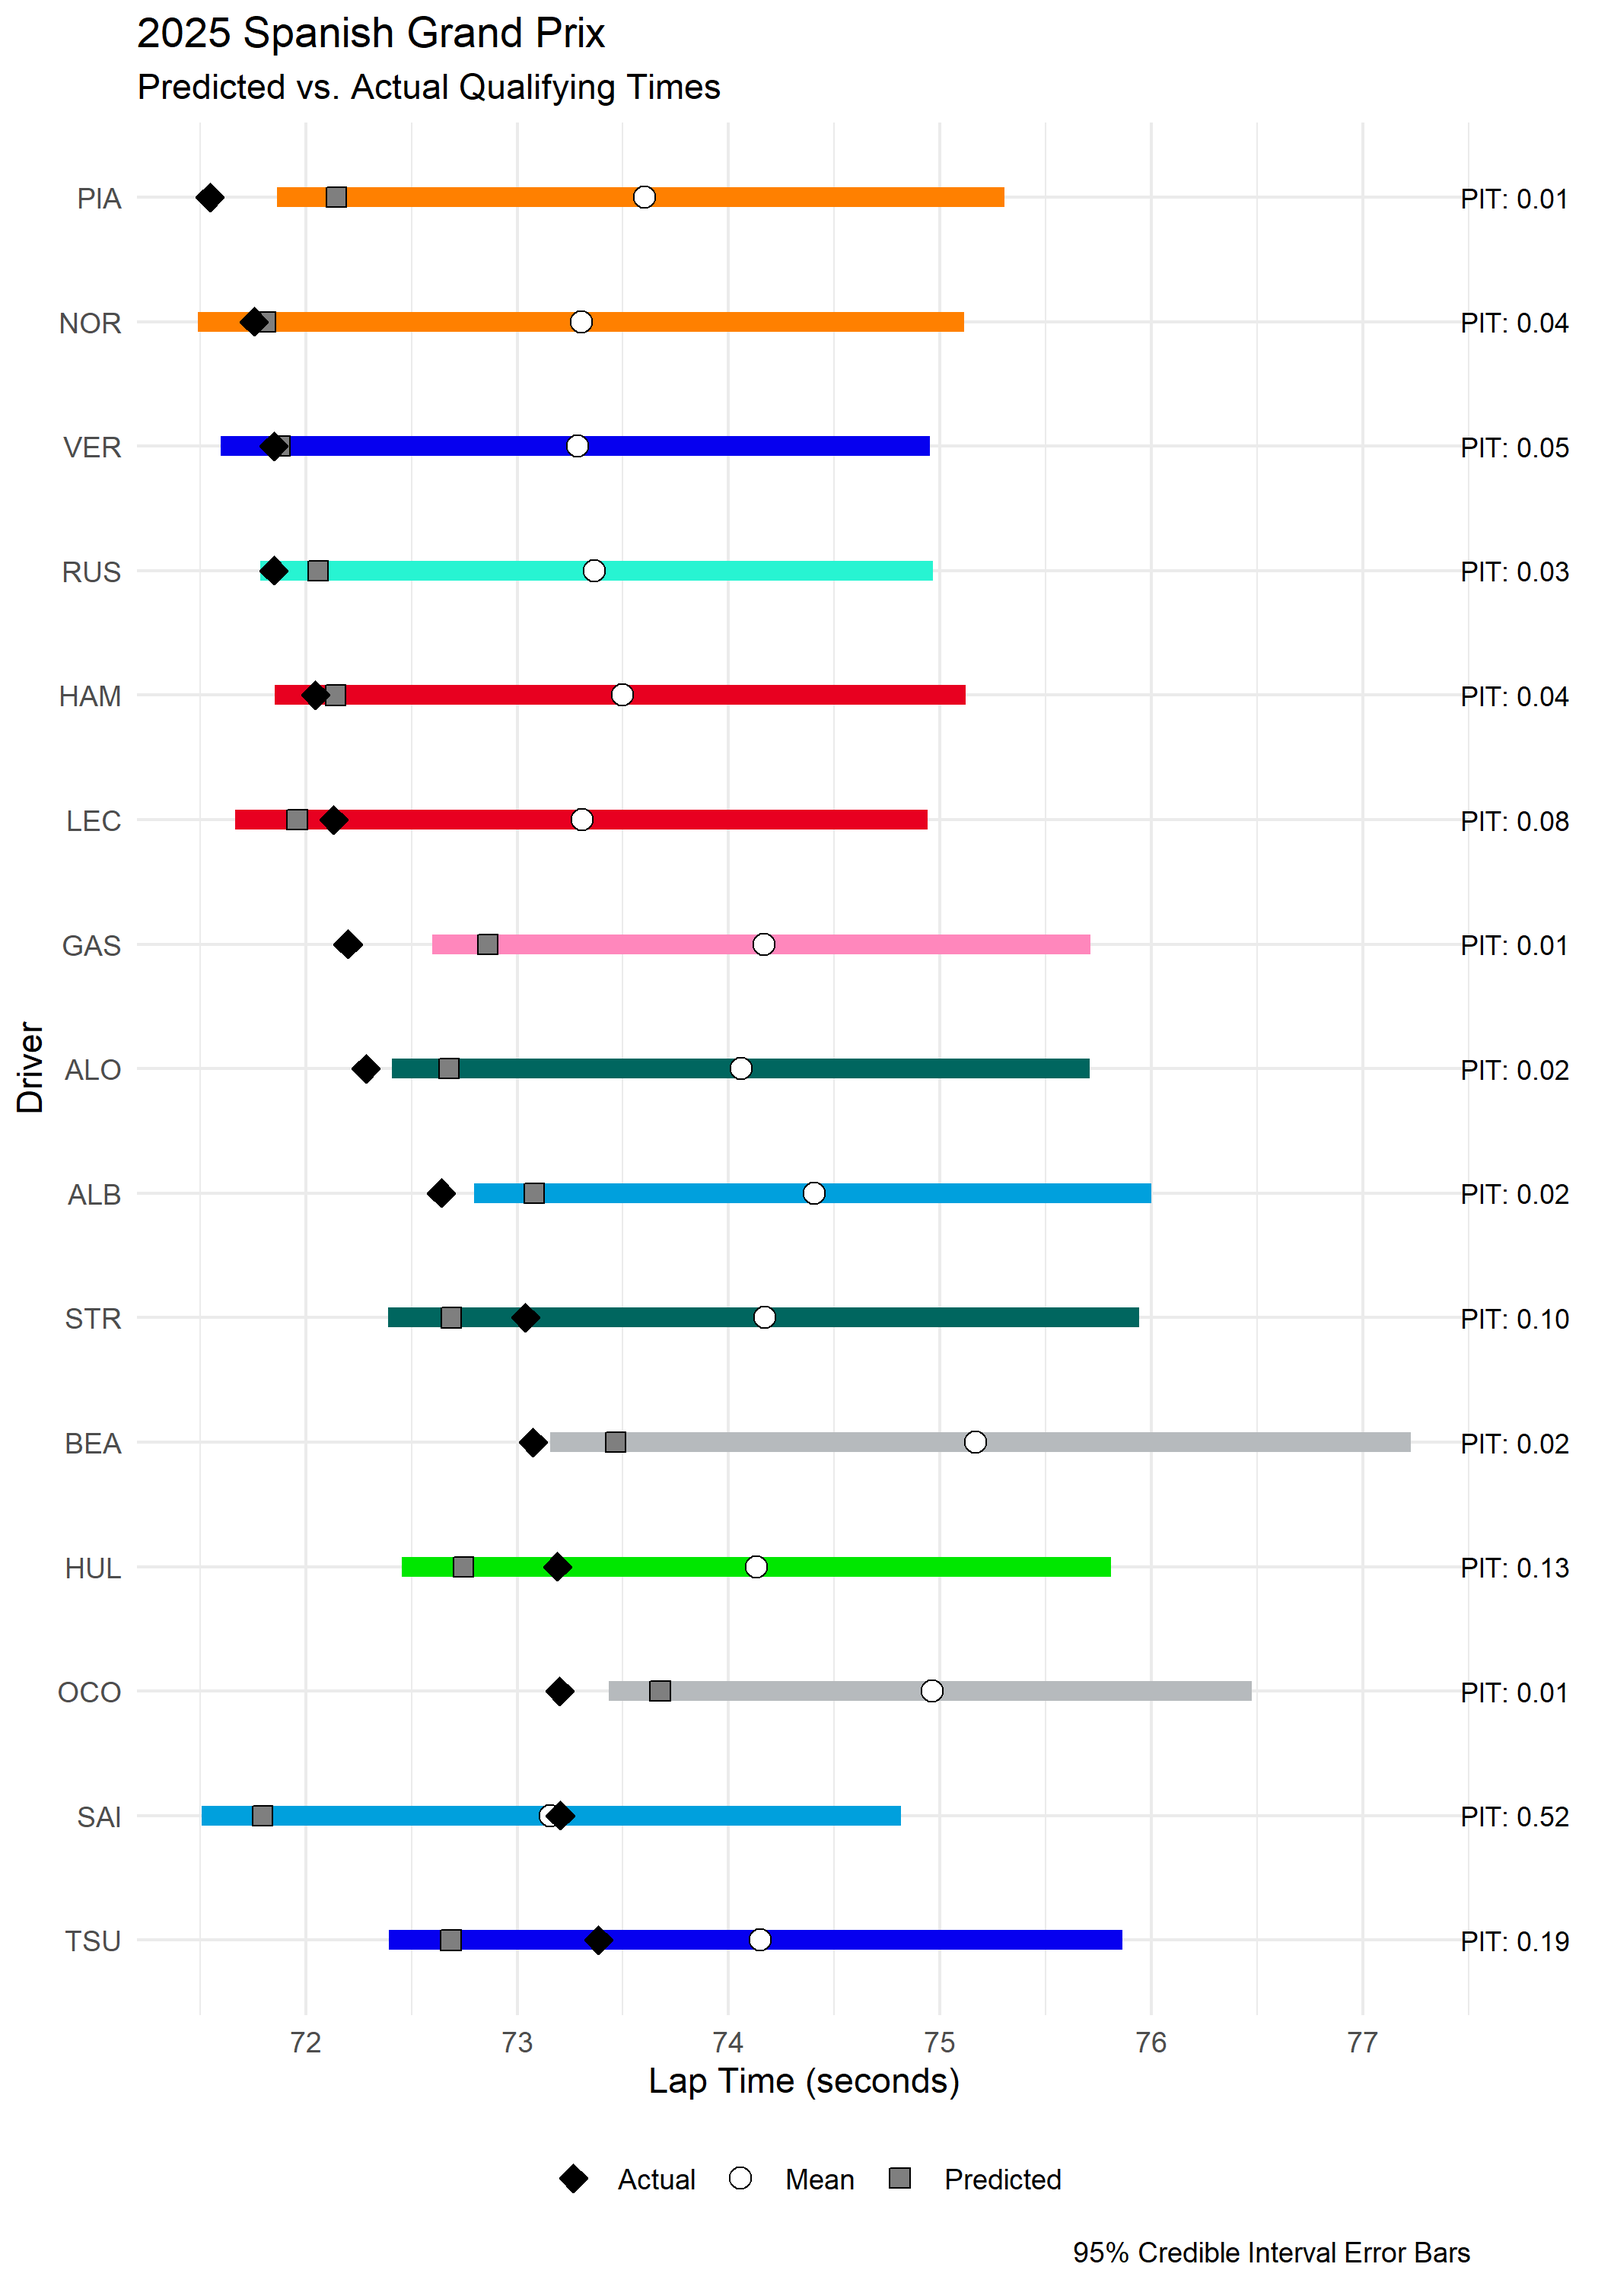
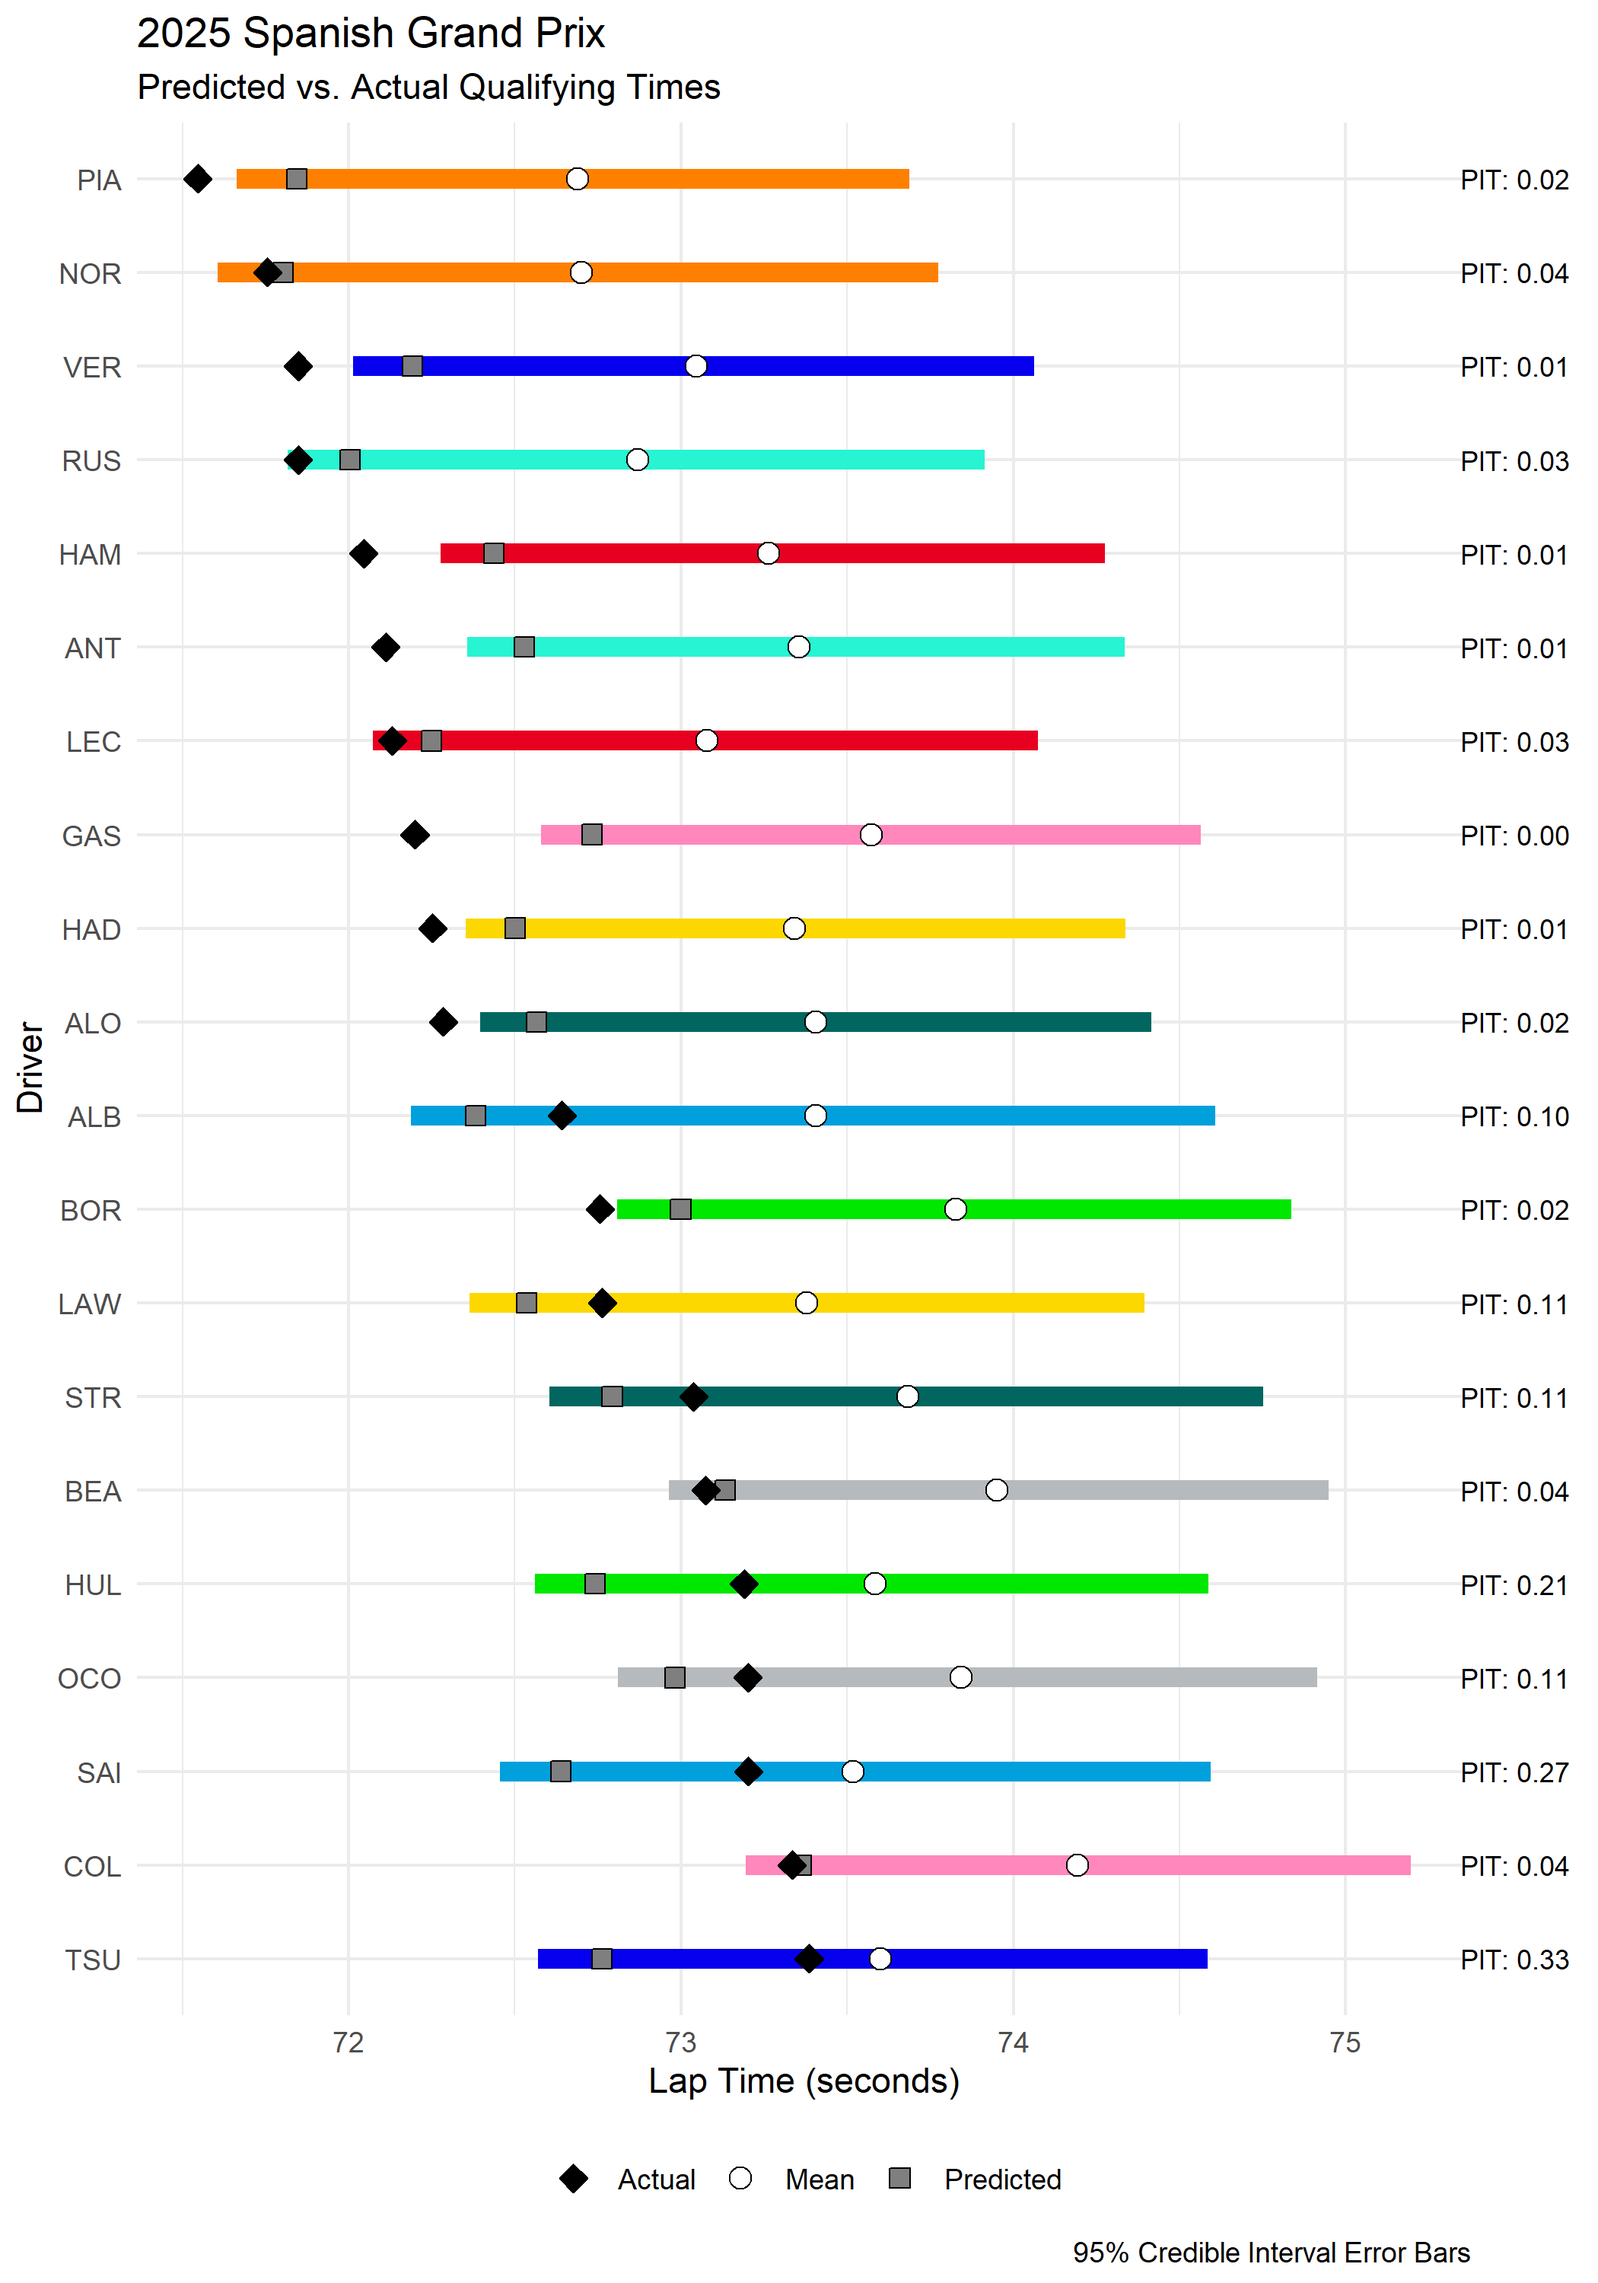
update vignettes with consistent model

diff --git a/docs/vignettes/shrinkage_vignette.md b/docs/vignettes/shrinkage_vignette.md
@@ -1,0 +1,113 @@
+Visualising partial-pooling shrinkage
+================
+Compiled: 2026-05-08
+
+This vignette demonstrates the partial-pooling effect introduced by the
+`(1 | Team)` random intercept term in the hierarchical Bayesian model.
+By comparing each driver’s raw practice pace against their model
+posterior, we can see where the model trusts the observed data and where
+it overrides it in favour of the constructor’s baseline pace.
+
+### Partial-pooling
+
+The model formula
+`LapTime_sec ~ log(Weekend_Mins_Elapsed + 1) + Driver + (1 | Team)`
+contains two distinct ways of handling group membership:
+
+- `Driver` is a **fixed effect** where each driver receives an
+  independent intercept estimated solely from their own laps, with no
+  information shared between drivers.
+- `(1 | Team)` is a **random effect** where the constructor intercepts
+  are treated as draws from a shared normal distribution, whose spread
+  (`sd`) is itself estimated from the data.
+
+Because every constructor’s intercept is anchored to the same prior,
+teams with limited practice data cannot stray far from the field
+average.
+
+Drivers inherit this regularisation indirectly and their predictions
+combine their own fixed-effect coefficient with their constructor’s
+partially-pooled intercept.
+
+### Measuring shrinkage
+
+To observe the measured shrinkage, the 5th percentile of raw observed
+lap time and the posterior draws distribution are used to calculate the
+shrinkage fraction:
+
+    shrinkage_fraction = (raw_mean - posterior_mean) / (raw_mean - grand_mean)
+
+A value near 0 means the posterior stayed close to the raw estimate. A
+value near 1 means the posterior was pulled almost entirely to the grand
+mean and therefore the model largely ignored the raw data in favour of
+the group average. Values outside of this range indicate the constructor
+baseline sits on the opposite side of the grand mean from the driver’s
+raw estimate, so partial pooling moves the prediction away from the
+grand mean rather than towards it.
+
+``` r
+# Raw 5th percentile per driver (no-pooling benchmark)
+no_pool_driver <- model_data_q |>
+  group_by(Driver, Team) |>
+  summarise(
+    raw_mean = quantile(LapTime_sec, 0.05),
+    n_laps   = n(),
+    .groups  = "drop"
+  )
+
+# Posterior 5th percentile per driver (partial-pooling estimate)
+pool_driver <- model_data_q |>
+  group_by(Driver, Team) |>
+  slice(1) |>
+  ungroup() |>
+  add_predicted_draws(fit_quali, ndraws = 500) |>
+  group_by(Driver, Team) |>
+  summarise(posterior_mean = quantile(.prediction, 0.05), .groups = "drop")
+
+# Grand mean across all practice laps
+grand_mean <- mean(model_data_q$LapTime_sec)
+
+# Assemble shrinkage data frame
+shrinkage_df <- no_pool_driver |>
+  left_join(pool_driver, by = c("Driver", "Team")) |>
+  mutate(
+    raw_distance       = raw_mean - grand_mean,
+    shrinkage_absolute = raw_mean - posterior_mean,
+    shrinkage_fraction = shrinkage_absolute / raw_distance
+  ) |>
+  left_join(team_colours |> select(Team, Colour), by = "Team")
+```
+
+<img src="shrinkage_vignette_files/figure-gfm/plot-1.png" alt="" width="100%" style="display: block; margin: auto;" />
+
+### Analyis of shrinkage effect
+
+Three broad groupings emerge from the shrinkage analysis:
+
+- High confidence drivers whose shrinkage fraction is close to zero who
+  had consistent practice pace and a constructor baseline that
+  corroborated it. Subsequently, the model trusted their laps and the
+  posterior stayed near the raw estimate (e.g., Verstappen).
+
+- Low confidence drivers with a single lap, or whose raw estimate sat
+  very close to the grand mean and have predictions that are almost
+  entirely constructor-driven. In these cases, the model had little
+  individual data to work with and defaulted to the team baseline. These
+  predictions should be treated with the most caution. Albon and Ocon (1
+  and 2 laps, respectively) display the largest shrinkage, entirely
+  pulled by their constructor baseline.
+
+- Constructor-dominated direction drivers with a negative shrinkage
+  fraction were pulled in the direction away from the grand mean. This
+  occurs when the constructor intercept sits on the faster side of the
+  grand mean, overriding a more modest raw estimate from the driver’s
+  own laps. For rookies or drivers returning from practice incidents
+  this is a known limitation. with both teammates pulled toward the same
+  constructor baseline regardless of individual lap evidence. The
+  Mercedes drivers exhibit this above, with predicted times for both
+  pulled faster by the underlying baseline pace.
+
+Because `Driver` enters the model as a fixed effect rather than a random
+effect, there is no direct driver-to-driver pooling. All regularisation
+is constructor-level, inherited indirectly by drivers through the
+`(1 | Team)` intercept.

diff --git a/docs/vignettes/evaluating_model_vignette.md b/docs/vignettes/evaluating_model_vignette.md
@@ -1,10 +1,10 @@
 Simulation model evaluation methodology
 ================
-Compiled: 2026-04-29
+Compiled: 2026-05-07
 
-This vignette highlights and explains the methodology behind the
-evaluation of prediction models for qualifying sessions generated by
-`laps-of-judgement` via Bayesian hierarchical modelling.
+This vignette highlights the methodology for evaluating the qualifying
+lap time prediction model and the simulated posterior draw accuracy of
+the Bayesian hierarchical model.
 
 ### Load in the data
 
@@ -33,9 +33,9 @@ model_data_q <- readRDS(here::here(paste0("outputs/model_data_", event_name, ".r
 ### Predict lap times from posterior draws
 
 The predicted qualifying times are calculated from the 5th percentile of
-the posterior draw distribution per driver - reflective of a “full send”
-push lap expected in qualifying, against the relatively calmer practice
-session attempts.
+the posterior draw distribution per driver. This is reflective of a peak
+performance push lap expected in qualifying, against the average pace of
+practice session attempts.
 
 ``` r
 # Simulate times
@@ -60,6 +60,8 @@ predicted_grid <- data.frame(
 To evaluate the qualifying simulation, the target session must have
 already been completed, and the qualifying data loaded using
 `python python/get_data.py --session_type Q --year 2025`, for example.
+This data is directly compared to the simulated qualification times (5th
+percentile) output by the probabilistic model.
 
 ``` r
 # Only proceed if qualifying results have been retrieved
@@ -113,10 +115,10 @@ clustered around `0.05`. Values can be interpreted as follows:
 - `PIT ≈ 0.05`: The actual lap time aligns with the targeted push-lap
   percentile. The model is well-calibrated for this driver.
 - `PIT < 0.05`: The driver went faster than the vast majority of
-  simulated draws. This suggests the model underestimated their pace -
+  simulated draws. This suggests the model underestimated their pace,
   potentially due to sandbagging during practice, a significant car
-  setup change, or track conditions improving beyond what was seen in
-  the practice data.
+  setup change, improving track conditions, or a limited number of
+  permitted practice laps at initial model input.
 - `PIT > 0.05`: The actual lap time was slower than expected relative to
   the simulated distribution. This could reflect a driver failing to
   extract peak pace in qualifying, whether through traffic, a mistake,
@@ -126,13 +128,22 @@ clustered around `0.05`. Values can be interpreted as follows:
   pace rather than producing a representative push lap.
 - `PIT = 0.00`: The observed time falls entirely outside (faster than)
   the simulated distribution. This is a strong signal of either
-  substantial sandbagging in practice, or model misspecification for
-  that driver.
+  substantial sandbagging in practice, model misspecification for that
+  driver, or a limited number of permitted practice laps at initial
+  model input.
 
 <img src="evaluating_model_vignette_files/figure-gfm/plot-1.png" alt="" width="100%" style="display: block; margin: auto;" />
 
 By plotting the distribution of the PIT values calculated per driver, we
-can observe the relative accuracy of the simulation framework against
-the target calibration value.
+can observe the accuracy of the simulation framework against the target
+calibration value.
 
 <img src="evaluating_model_vignette_files/figure-gfm/hist-1.png" alt="" width="100%" style="display: block; margin: auto;" />
+
+Most simulation predictions lie within the `0.05` target calibration.
+This indicates an accurate prediction, in addition to a model that
+generally tends to underestimate (i.e., predict a slower time) peak lap
+time pace for this event. One possible explanation for this could be in
+the shrinkage effect of partial-pooling (`1 | Team`). For more
+information on this, see the [shrinkage
+vignette](shrinkage_vignette.md).
